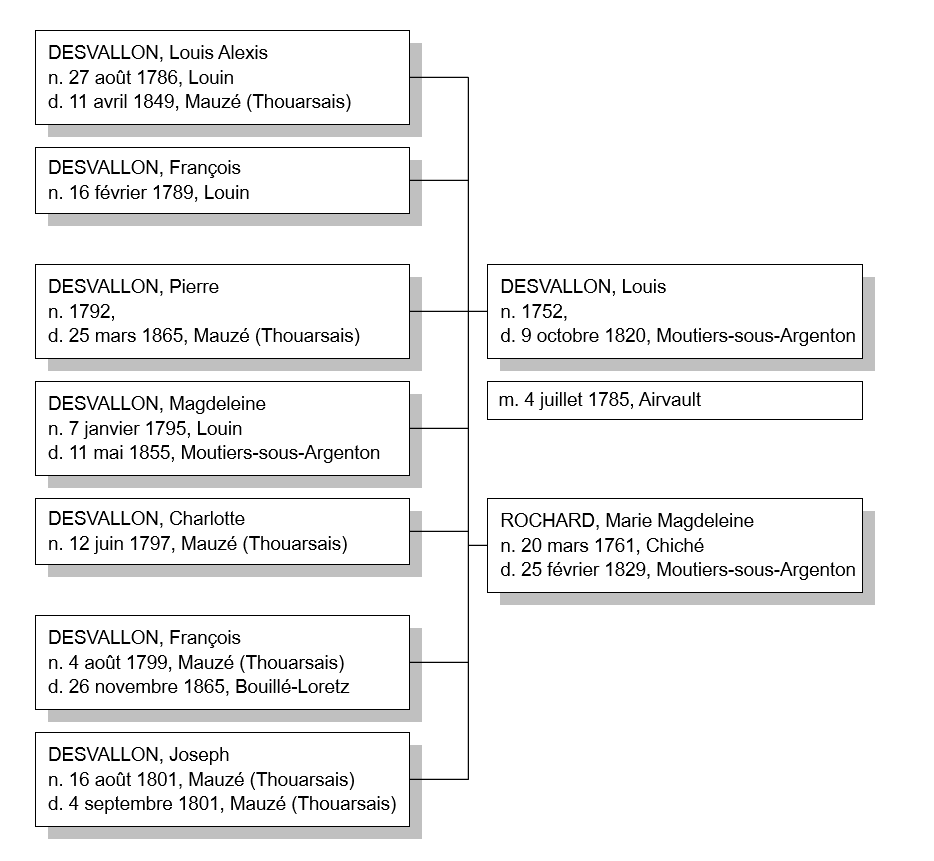
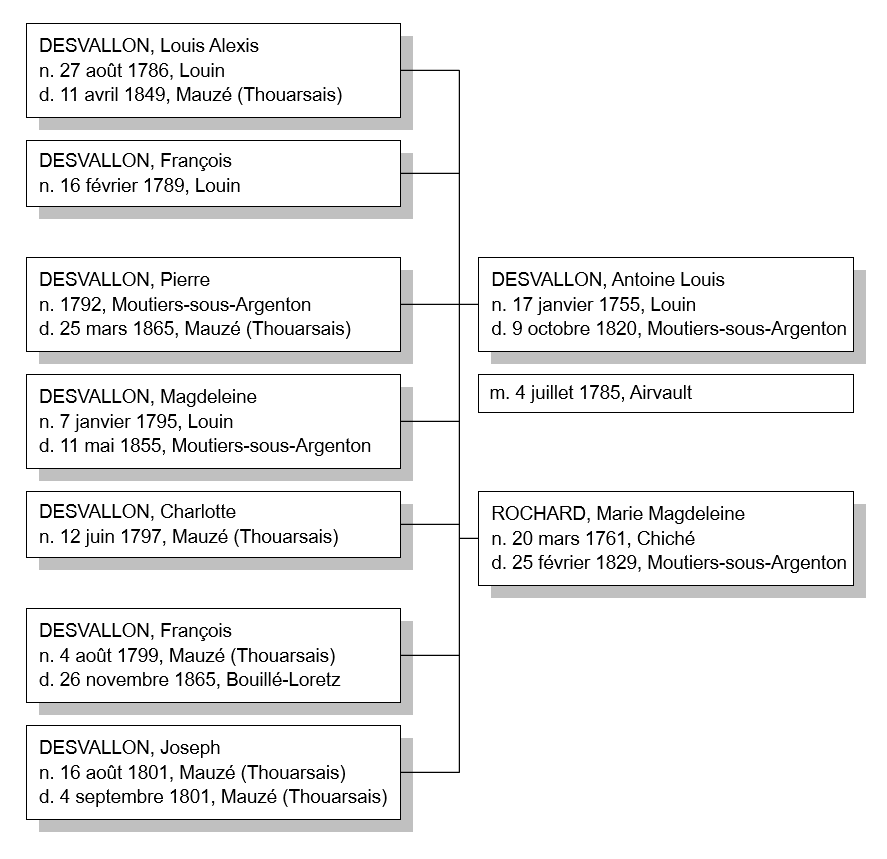
Desvallon années 175X

Changed region(s): [[0.0304, 0.0303, 0.9741, 0.9988]]

diff --git a/Famille DESVALLON.md b/Famille DESVALLON.md
@@ -12,8 +12,6 @@ Chaque famille possède sa section qui permet de connaître l'ensemble de la fra
 
 Parfois j'ai des doutes sur certaines informations, auquel cas elles sont en *italique* dans le document.
 
-
-
 Les arrières-grands-parents DESVALLON sont issus du Maine-et-Loire, qui est un département assez avare en terme de documents. 1902 est la date limite de consultation des actes d'état civil, et il n'y a ni recensement (en cours de numérisation apparemment) et ni successions. Les premières sources ne sont donc pas fiables à 100%.
 
 # Table des matières
@@ -54,11 +52,27 @@ Les arrières-grands-parents DESVALLON sont issus du Maine-et-Loire, qui est un 
 
 - Sextaïeuls paternels
   
-  - [DESVALLON, Louis](#desvallon10)
+  - [DESVALLON, Antoine Louis](#desvallon10)
   
   - [ROCHARD, Madeleine](#desvallon11)
   
   - [Mariage de Louis DESVALLON et de Madeleine ROCHARD](#desvallonrochard)
+
+- Septaïeuls paternels
+  
+  - [DESVALLON, Louis Pierre](#desvallon12)
+  
+  - [BICHON, Marie-Anne](#desvallon13)
+  
+  - [Mariage de Louis DESVALLON et de Marie-Anne BICHON](#desvallonbichon)
+
+- Octaïeuls paternels
+  
+  - [DESVALLON, Pierre](#desvallon14)
+  
+  - [FAUVEAU, Marie](#desvallon15)
+  
+  - [Mariage de Pierre DESVALLON et de Marie FAUVEAU](#desvallonfauveau)
 
 ## Souche de l'arbre <a name=souche/>
 
@@ -371,9 +385,31 @@ Source : https://archives-deux-sevres-vienne.fr/ark:/58825/vta5a647b6a440575c7/d
 | **Témoin 3**                      | Etienne BILLY, maréchal de 33 ans                                                                                       |
 | **Témoin 4**                      | Dominique BILLY, bordier de 47 ans                                                                                      |
 
+---
+
 <img src="./Arbre/desvallon5.png"/>
 
-## DESVALLON Louis <a name="desvallon10"/>
+## DESVALLON, Antoine Louis <a name="desvallon10"/>
+
+### Baptême, Louin, 17 janvier 1755
+
+<img src="./ActeNaissance/desvallon_antoine_louis.png"/>
+
+Source : https://archives-deux-sevres-vienne.fr/ark:/58825/vta7efb1b3d5802837a/daogrp/0/layout:table/idsearch:RECH_7637314785b1559b9fc3cf0854ca0f71?id=https%3A%2F%2Farchives-deux-sevres-vienne.fr%2Fark%3A%2F58825%2Fvta7efb1b3d5802837a%2Fcanvas%2F0%2F119&vx=1596.87&vy=-2937.9&vr=0&vz=6.35545
+
+#### Résumé
+
+| Commune                     | Louin                           |
+| --------------------------- | ------------------------------- |
+| **Enfant**                  | Antoine Louis DESVALLON         |
+| **Naissance**               | 17 janvier 1755                 |
+| **Père, âge et profession** | Louis Pierre DESVALLON          |
+| **Mère, âge et profession** | Pas indiqué (Marie-Anne BICHON) |
+| **Domicile**                | Bourg de Louin                  |
+| **Parrain**                 | Louis BICHON                    |
+| **Marraine**                | Michelle DESVALLON sa tante     |
+
+Remarque : Sa grande soeur est décédée il y a deux jours seulement le 15 janvier à l'âge de 18 mois et demi. Son acte de décès est justement celui qui précède ce baptême dans le registre.
 
 ### Acte de décès, Moutiers-sous-Argenton, 9 octobre 1820
 
@@ -383,17 +419,53 @@ Source : https://archives-deux-sevres-vienne.fr/ark:/58825/vta1b9a2d4ad71fe8dc/d
 
 #### Résumé
 
-| Commune                   | Moutiers-sous-Argenton                                 |
-| ------------------------- | ------------------------------------------------------ |
-| **Décédé**                | Louis DESVALLON, journalier, 72 ans                    |
-| **le**                    | 7 octobre 1820 à 20h                                   |
-| **Père**                  | N/A                                                    |
-| **Mère**                  | N/A                                                    |
-| **Domicile**              | Village de MIGAUDON à Moutiers-sous-Argenton           |
-| **Témoin 1 et déclarant** | Charles CHARRIER, maréchal de 37 ans, voisin du défunt |
-| **Témoin 2**              | Pierre DESVALLON, 28 ans, fils du défunt               |
+| Commune                   | Moutiers-sous-Argenton                                                  |
+| ------------------------- | ----------------------------------------------------------------------- |
+| **Décédé**                | Louis DESVALLON, journalier, 72 ans (erreur en fait il en avait 65 ans) |
+| **le**                    | 7 octobre 1820 à 20h                                                    |
+| **Père**                  | N/A                                                                     |
+| **Mère**                  | N/A                                                                     |
+| **Domicile**              | Village de MIGAUDON à Moutiers-sous-Argenton                            |
+| **Témoin 1 et déclarant** | Charles CHARRIER, maréchal de 37 ans, voisin du défunt                  |
+| **Témoin 2**              | Pierre DESVALLON, 28 ans, fils du défunt                                |
 
-## ROCHARD Marie Magdeleine <a name="desvallon11"/>
+## ROCHARD, Marie Magdeleine <a name="desvallon11"/>
+
+### Baptême, Chiché, 20 mars 1761
+
+<img src="./ActeNaissance/rochard_madeleine.png"/>
+
+Source : https://archives-deux-sevres-vienne.fr/ark:/58825/vtab8a0478a7efb1a3f/daogrp/0/layout:table/idsearch:RECH_232db40d4ef9825911fd26dd55c19efb?id=https%3A%2F%2Farchives-deux-sevres-vienne.fr%2Fark%3A%2F58825%2Fvtab8a0478a7efb1a3f%2Fcanvas%2F0%2F113&vx=3932.8&vy=-2984.49&vr=0&vz=6.34106 
+
+#### Résumé
+
+| Commune                     | Chiché                  |
+| --------------------------- | ----------------------- |
+| **Enfant**                  | Marie Madeleine ROCHARD |
+| **Naissance**               | 20 mars 1761            |
+| **Père, âge et profession** | Jean ROCHARD            |
+| **Mère, âge et profession** | Marie BIARDEAU          |
+| **Domicile**                | Chiché                  |
+| **Parrain**                 | Germain DEBOEUF         |
+| **Marraine**                | Marie DEBOEUF           |
+
+### Acte de décès, Moutiers-sous-Argenton, 25 février 1829
+
+<img src="./ActeDeces/rochard_madeleine.png"/>
+
+Source : https://archives-deux-sevres-vienne.fr/ark:/58825/vta1b9a2d4ad71fe8dc/daogrp/0/layout:table/idsearch:RECH_287c441c1c0b38ea96ba7443546268f2?id=https%3A%2F%2Farchives-deux-sevres-vienne.fr%2Fark%3A%2F58825%2Fvta1b9a2d4ad71fe8dc%2Fcanvas%2F0%2F215&vx=2800.12&vy=-977.937&vr=0&vz=7.1457
+
+#### Résumé
+
+| Commune                   | Moutiers-sous-Argenton, canton d'Argenton-le-Château                        |
+| ------------------------- | --------------------------------------------------------------------------- |
+| **Décédée**               | Marie Madeleine ROCHARD, 68 ans, veuve de Louis DESVALLON                   |
+| **le**                    | 25 février 1829 à 7h00 du matin                                             |
+| **Père**                  | René ROCHARD (contradiction avec le baptême ou c'est Jean ROCHARD)          |
+| **Mère**                  | Madeleine BELIARD (a dû se remarier)                                        |
+| **Domicile**              | Bourg de Moutiers-sous-Argenton                                             |
+| **Témoin 1 et déclarant** | Louis DESVALLON, son fils, 42 ans, bordier                                  |
+| **Témoin 2**              | Pierre DESVALLON, son fils, 37 ans, domestique domicilié à Mauzé-Thouarsais |
 
 ## Mariage de Louis DESVALLON et de Madeleine ROCHARD <a name="desvallonrochard"/>
 
@@ -407,7 +479,7 @@ Source : https://archives-deux-sevres-vienne.fr/ark:/58825/vta1b9a2d4ad71fe8dc/d
 | **Femme**                                       | Magdeleine ROCHARD, domestique chez dame Noirault à Thouars         |
 | **Mariage**                                     | 4 juillet 1785                                                      |
 | **Père du marié**                               | Louis DESVALLON, tisserand. Rattaché à la paroisse d'Airvault       |
-| **Mère du marié**                               | Marianne BICHON, décédée. Rattachée à la paroisse d'Airvault        |
+| **Mère du marié**                               | Marie-Anne BICHON, décédée. Rattachée à la paroisse d'Airvault      |
 | **Père de la mariée**                           | Jean ROCHARD, décédé, paroisse de Chiché                            |
 | **Mère de la mariée**                           | Marie BIARDEAU, paroisse de Chiché                                  |
 | **Domicile**                                    | N/A                                                                 |
@@ -418,4 +490,88 @@ Source : https://archives-deux-sevres-vienne.fr/ark:/58825/vta1b9a2d4ad71fe8dc/d
 | **Témoin 5 : mère de la mariée**                | Marie BIARDEAU                                                      |
 | **Témoin 6 : ami de la mariée**                 | Jean AMINOT                                                         |
 
-## 
+## Recensement à Louin en 1796
+
+<img src="./Recensement/desvallon_rochard.png"/>
+
+Source : https://archives-deux-sevres-vienne.fr/ark:/58825/vtad234b14e1d71ce36/daogrp/0/layout:table/idsearch:RECH_c101add60cf2d7501d288ac0120097e3?id=https%3A%2F%2Farchives-deux-sevres-vienne.fr%2Fark%3A%2F58825%2Fvtad234b14e1d71ce36%2Fcanvas%2F0%2F8&vx=951.323&vy=-1474.98&vr=0&vz=4.37038
+
+---
+
+<img src="./Arbre/desvallon6.png"/>
+
+## DESVALLON, Louis Pierre <a name="desvallon12"/>
+
+### Baptême, Louin, 10 novembre 1717
+
+<img src="./ActeNaissance/desvallon_louis_pierre.png"/>
+
+Source : https://archives-deux-sevres-vienne.fr/ark:/58825/vta94cec7b10dcd434e/daogrp/0/layout:table/idsearch:RECH_7637314785b1559b9fc3cf0854ca0f71?id=https%3A%2F%2Farchives-deux-sevres-vienne.fr%2Fark%3A%2F58825%2Fvta94cec7b10dcd434e%2Fcanvas%2F0%2F50&vx=1871.31&vy=-2738.21&vr=0&vz=6.79569
+
+#### Résumé
+
+| Commune                     | Louin                  |
+| --------------------------- | ---------------------- |
+| **Enfant**                  | Louis Pierre DESVALLON |
+| **Naissance**               | 10 novembre 1717       |
+| **Père, âge et profession** | Pierre DESVALLON       |
+| **Mère, âge et profession** | Marie FAUVEAU          |
+| **Domicile**                |                        |
+| **Parrain**                 | Louis DESCHAMPS        |
+| **Marraine**                | Marie LAURENCE         |
+
+### Acte de décès, Louin, 9 décembre 1793 (19 frimaire An 2)
+
+<img src="./ActeDeces/desvallon_louis_pierre.png"/>
+
+Source : https://archives-deux-sevres-vienne.fr/ark:/58825/vta56019b9f32bbe474/daogrp/0/layout:table/idsearch:RECH_7637314785b1559b9fc3cf0854ca0f71?id=https%3A%2F%2Farchives-deux-sevres-vienne.fr%2Fark%3A%2F58825%2Fvta56019b9f32bbe474%2Fcanvas%2F0%2F7&vx=3714.67&vy=-3034.95&vr=0&vz=5.98787
+
+#### Résumé
+
+| Commune                   | Louin                                                                              |
+| ------------------------- | ---------------------------------------------------------------------------------- |
+| **Décédé**                | Louis Pierre DESVALLON, 78 ans (en fait il en avait 76), veuf de Marie-Anne BICHON |
+| **le**                    | 9 décembre 1793                                                                    |
+| **Père**                  | Non indiqué                                                                        |
+| **Mère**                  | Non indiqué                                                                        |
+| **Domicile**              | Bourg de Louin                                                                     |
+| **Témoin 1 et déclarant** | Louis DESVALLON, son fils, tisserand                                               |
+| **Témoin 2**              | Louis ROUX, vigneron                                                               |
+
+## BICHON, Marie-Anne <a name="desvallon13"/>
+
+## Mariage de Louis DESVALLON et de Marie-Anne BICHON <a name="desvallonbichon"/>
+
+Pas trouvé ni à Airvault, ni à Louin, ni à Soulièvres. A probablement eu lieu entre 1750 et 1753 car l'ainée a été déclarée légitime.
+
+---
+
+## DESVALLON, Pierre <a name="desvallon14"/>
+
+### Acte de décès, Louin, 6 juillet 1747
+
+<img src="./ActeDeces/desvallon_pierre.png"/>
+
+Source : https://archives-deux-sevres-vienne.fr/ark:/58825/vta7efb1b3d5802837a/daogrp/0/layout:table/idsearch:RECH_7637314785b1559b9fc3cf0854ca0f71?id=https%3A%2F%2Farchives-deux-sevres-vienne.fr%2Fark%3A%2F58825%2Fvta7efb1b3d5802837a%2Fcanvas%2F0%2F37&vx=1522.79&vy=-860.503&vr=0&vz=5.4924
+
+#### Résumé
+
+| Commune                   | Moutiers-sous-Argenton, canton d'Argenton-le-Château                        |
+| ------------------------- | --------------------------------------------------------------------------- |
+| **Décédé**                | Marie Madeleine ROCHARD, 68 ans, veuve de Louis DESVALLON                   |
+| **le**                    | 25 février 1829 à 7h00 du matin                                             |
+| **Père**                  | René ROCHARD (contradiction avec le baptême ou c'est Jean ROCHARD)          |
+| **Mère**                  | Madeleine BELIARD (a dû se remarier)                                        |
+| **Domicile**              | Bourg de Moutiers-sous-Argenton                                             |
+| **Témoin 1 et déclarant** | Louis DESVALLON, son fils, 42 ans, bordier                                  |
+| **Témoin 2**              | Pierre DESVALLON, son fils, 37 ans, domestique domicilié à Mauzé-Thouarsais |
+
+### Second mariage avec Marie FILLATRAULT
+
+Source : https://archives-deux-sevres-vienne.fr/ark:/58825/vta7efb1b3d5802837a/daogrp/0/layout:table/idsearch:RECH_74abf8232cc72f2a36f2ed467d6fe0f5?id=https%3A%2F%2Farchives-deux-sevres-vienne.fr%2Fark%3A%2F58825%2Fvta7efb1b3d5802837a%2Fcanvas%2F0%2F8&vx=3969.42&vy=-2834.12&vr=0&vz=5.32625
+
+Elle est décédée un peu après leur mariage, le 15 avril 1746 (source : https://archives-deux-sevres-vienne.fr/ark:/58825/vta7efb1b3d5802837a/daogrp/0/layout:table/idsearch:RECH_74abf8232cc72f2a36f2ed467d6fe0f5?id=https%3A%2F%2Farchives-deux-sevres-vienne.fr%2Fark%3A%2F58825%2Fvta7efb1b3d5802837a%2Fcanvas%2F0%2F19&vx=3968.05&vy=-1539.62&vr=0&vz=6.0032)
+
+## FAUVEAU, Marie <a name="desvallon15"/>
+
+## Mariage de Pierre DESVALLON et de Marie FAUVEAU <a name="desvallonfauveau"/>
